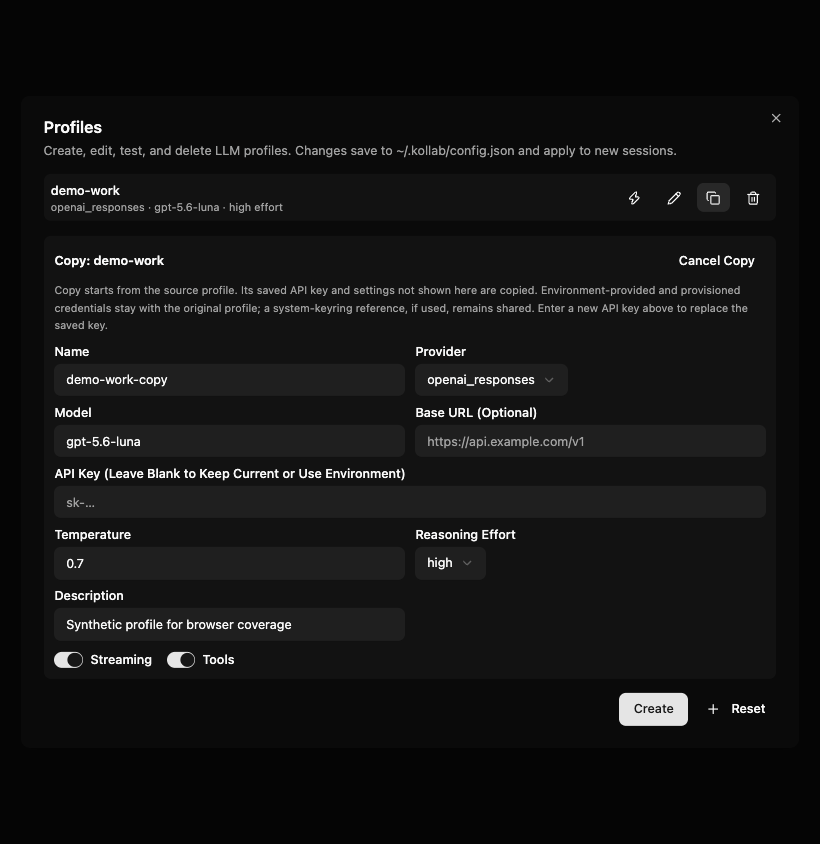
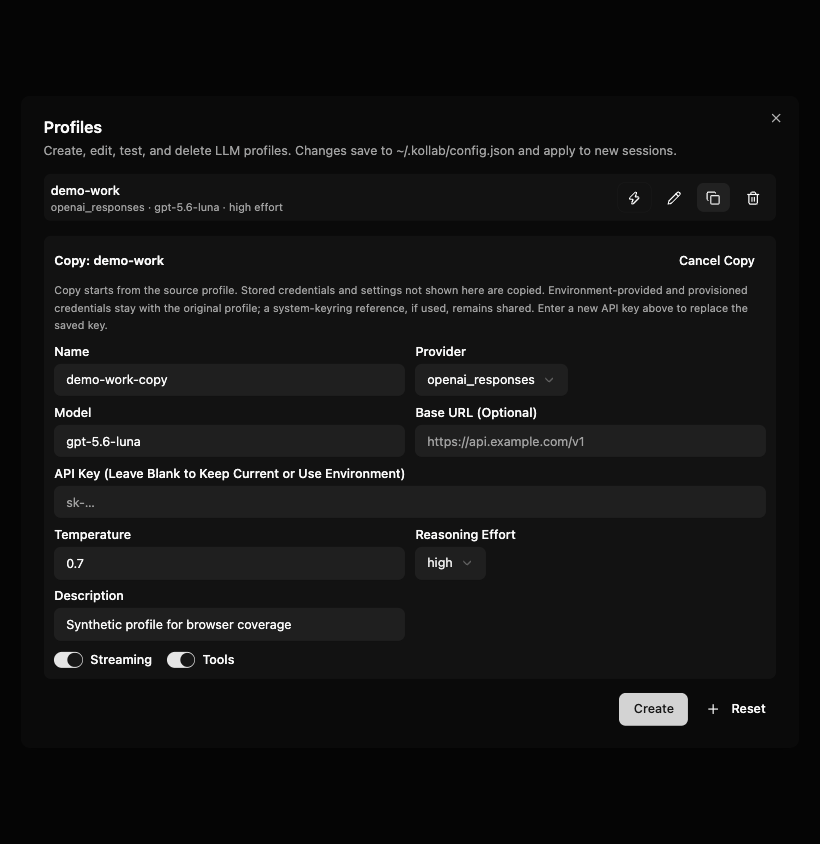
fix(webui): clarify copied profile credentials

Changed region(s): [[0.3049, 0.3389, 0.9146, 0.3697], [0.7927, 0.8318, 0.8232, 0.8626]]

diff --git a/packages/kollabor-webui/frontend/src/components/shell/ProfilesDialog.tsx b/packages/kollabor-webui/frontend/src/components/shell/ProfilesDialog.tsx
@@ -387,7 +387,7 @@ export function ProfilesDialog({
               className="mb-3 text-muted-foreground text-xs leading-relaxed"
               role="note"
             >
-              Eligible profiles copy saved credentials and hidden settings,
+              Eligible profiles copy stored credentials and hidden settings,
               including ACP runtime fields, server-side. Environment-backed API
               keys stay with the source; configure the new profile's API-key
               environment variable before copying. System-keyring references
